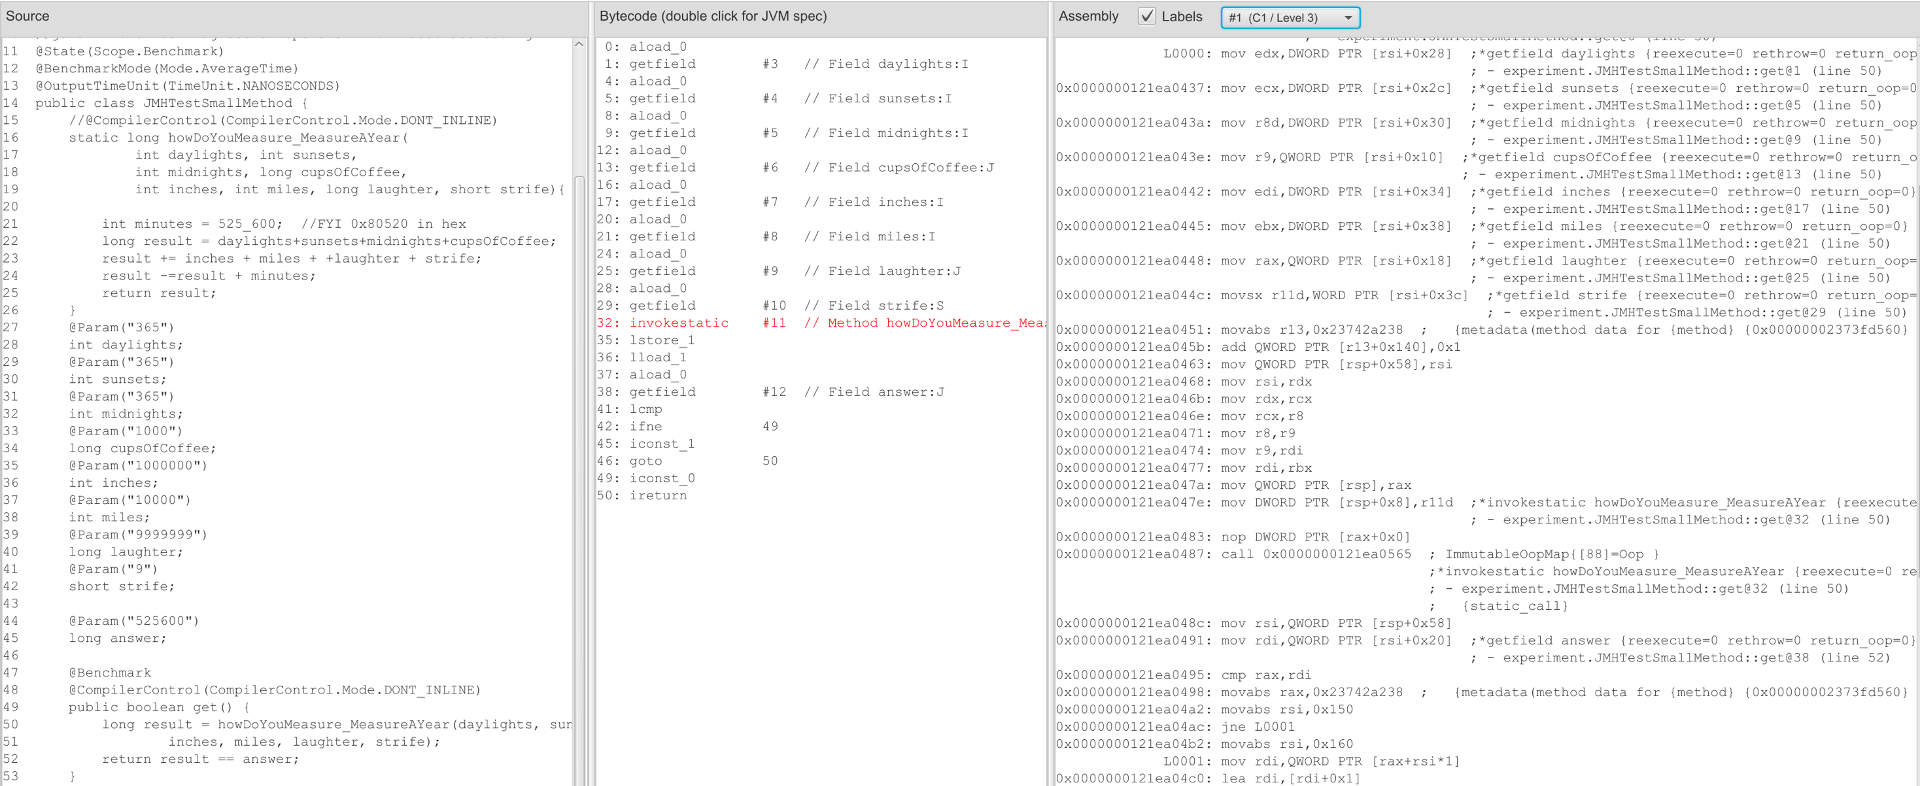
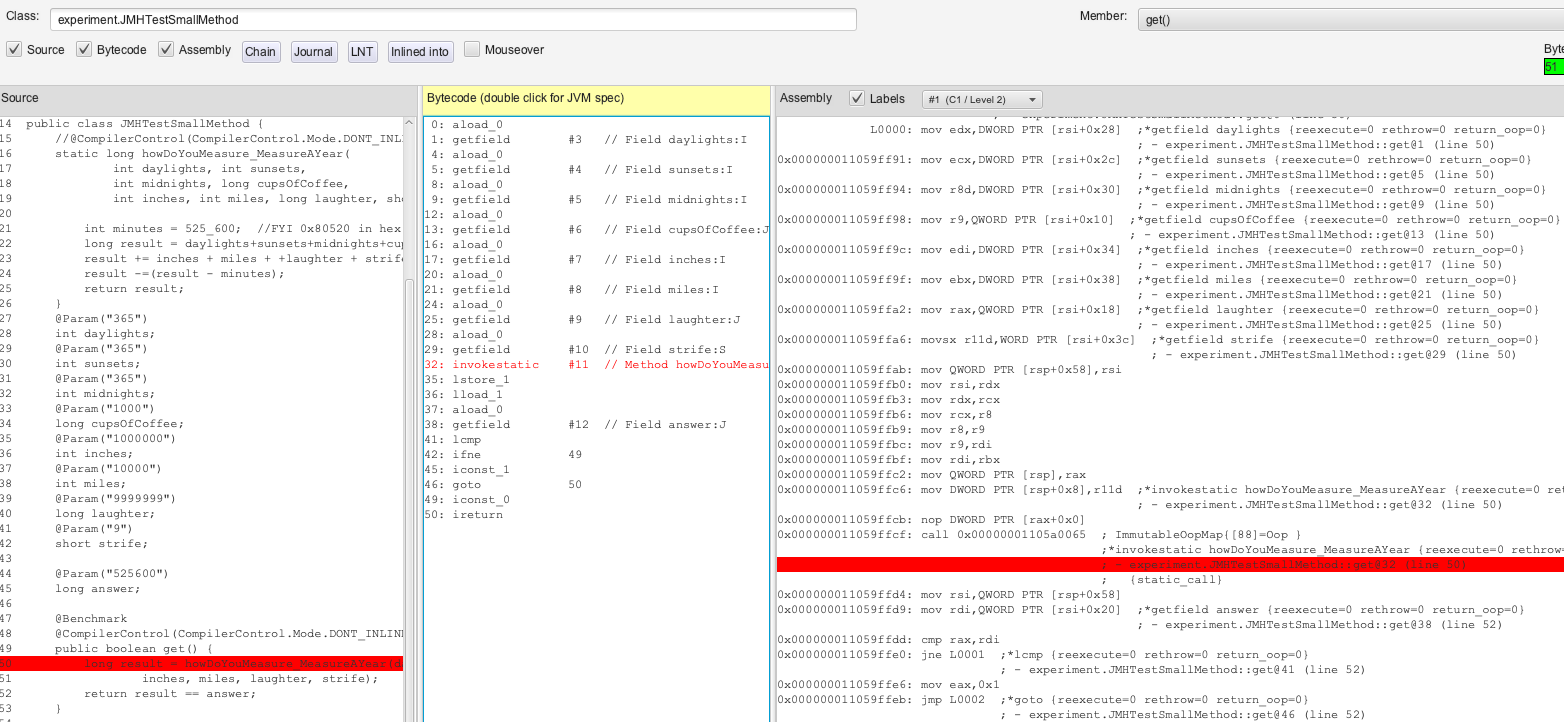
Fixed assembly issue and improved images.

Changed region(s): [[0.0, 0.0, 1.0, 1.0], [0.399, 0.5789, 0.4604, 0.6094]]

diff --git a/_posts/2020-09-01-java-giants.md b/_posts/2020-09-01-java-giants.md
@@ -104,7 +104,7 @@ To really show how different assembly can be from the original, and as an excuse
         int minutes = 525_600;  //FYI 0x80520 in hex
         long result = daylights+sunsets+midnights+cupsOfCoffee;
         result += inches + miles + +laughter + strife;
-        result -=result + minutes;
+        result -= (result - minutes);
         return result;
     }
 
@@ -114,7 +114,7 @@ To really show how different assembly can be from the original, and as an excuse
         long result = howDoYouMeasure_MeasureAYear(daylights, sunsets, midnights, cupsOfCoffee,
                 inches, miles, laughter, strife);
         return result == answer;
-    }
+    } 
 ```
 This method always returns 525_600 regardless of input and convoluted logic.   The first time that the JIT compiles this to assembler, it will transform the method "as-is".   In JITWatch, we see the following for the get() method, where the code is on the left, the bytecode for the get() method is in the middle, and the assembly on the right: 
 ![get_c1](/assets/images/2020-09-14-get-c1.png)
@@ -130,12 +130,13 @@ Note all the assembly for gathering member variable data in preparation for the 
 
 The assembly version above is the output of the C1 JIT compiler, which does fast simple-stupid when possible.   The assembly for the called method, howDoYouMeasure_MeasureAYear(), is equally straightforward so I'll skip showing it, but even the pointless additions and subtractions are included.  
 
-After a few seconds, however, the JIT realizes it has CPU cycles available to take another look.  The output of this advanced JIT processor (called the C4) is far more interesting.  Now we JITWatch shows the following:
+After a few seconds, however, the JIT realizes it has CPU cycles available to take another look.  The output of this advanced JIT processor (called the C2) is far more interesting.  Now JITWatch shows the following:
 ![get_c4](/assets/images/2020-09-14-get-c4.png)
 
 Figure 4:  get() with optimized assembly
 
 Of course, the java code and the bytecode are still the same. But, the assembly is very different.  I will zoom in again:
+
 ![get_c4_zoomed](/assets/images/2020-09-14-get-c4-zoomed.png)
 
 Figure 5:  get() with new optimized assembly zoomed
@@ -143,14 +144,11 @@ Figure 5:  get() with new optimized assembly zoomed
 Now, if you stare long enough at the assembly, you'll notice several things about this rewrite:
 1.  The JIT is no longer bothering to load member variables into memory in preparation for a call. 
 2.  The JIT is actually no longer even calling our child method.  It copied the relevant assembly into get() itself (an optimization called "inlining", as called out in the popup). 
-3.  The JIT realized our child method is completely stupid and always returns the same answer.
-4.  The JIT has put the answer it always gets from our child method in memory address 0xffffffffffff7fae0 for get() to use.  
-5.  The JIT has rewritten our code to say:
-    1. We will return false if "answer" has changed (since the method result appears to be constant). 
-    2. If the contents of memory address 0xffffffffffff7fae0 ever changes or does not match "answer", we will abort our optimization and call the original method as our assumptions are no longer valid.  (This is called an "uncommon trap".)
-    3. Barring these two events, we return true.
+3.  The JIT has simply put the method result it always gets as a constant, 0x80520 (or 525_600 in hex), for get() to use.
+4.  The JIT simply compares field "answer" and 525_600 in hex and returns 1 (true) if they match.
+5.  If the JIT is ever wrong about field "answer" matching 525_600 in hex, it will abort the optimization and call the original method as its assumptions are no longer valid (this is called an "uncommon trap").
 
-Given all the addition and subtraction operations in the original method, this is a significant rewrite of our code!   Here is a portion of the assembly of the original method, all of which has now been removed by the C4:
+Given all the addition and subtraction operations in the original method, this is a significant rewrite of our code!   Here is a portion of the assembly of the original method, all of which has now been removed by the C2:
   
 ![get_child_c1](/assets/images/2020-09-14-original-child-c1.png)
 
@@ -161,7 +159,7 @@ Again, if you try to debug the changes, you will simply step over the unchanged 
 If you are curious, a colleague of mine has indeed seen this in production.  It was, of course, only through research like the above that the issue was resolved.  "Volatile" is definitely on our checklist for spotting errors of omission.
 
 ## Carol Dweck
-**Carol Dweck** is a giant in the field of empowering people to worry more about achievements and glorious struggles rather than always "appearing smart".   Her concept is called the “Growth Mindset” and it is legitimately awesome.   I love her 10 minute video [How to Help Every Child Fulfil Their Potential](https://youtu.be/Yl9TVbAal5s) as an (animated!) intro as well as her book “The New Psychology of Success”.    Her “Growth Mindset” is a part of Blue Yonder culture, as touted from CEO down, and that culture is one of the many reasons why 20+ years later I still love coming to work here every day.
+**Carol Dweck** is a giant in the field of empowering people to worry more about achievements and glorious struggles rather than always "appearing smart".   Her concept is called the “Growth Mindset” and it is legitimately awesome.   I love her 10 minute video [How to Help Every Child Fulfil Their Potential](https://youtu.be/Yl9TVbAal5s) as an (animated!) intro as well as her book “The New Psychology of Success”.  
 
 How does Dweck pertain to this puzzle?  Dweck has two concepts that are key to solving issues like the one above:  "not yet" and "no titles".   Both are critical when striving for continuous, amazing achievement. 
 
